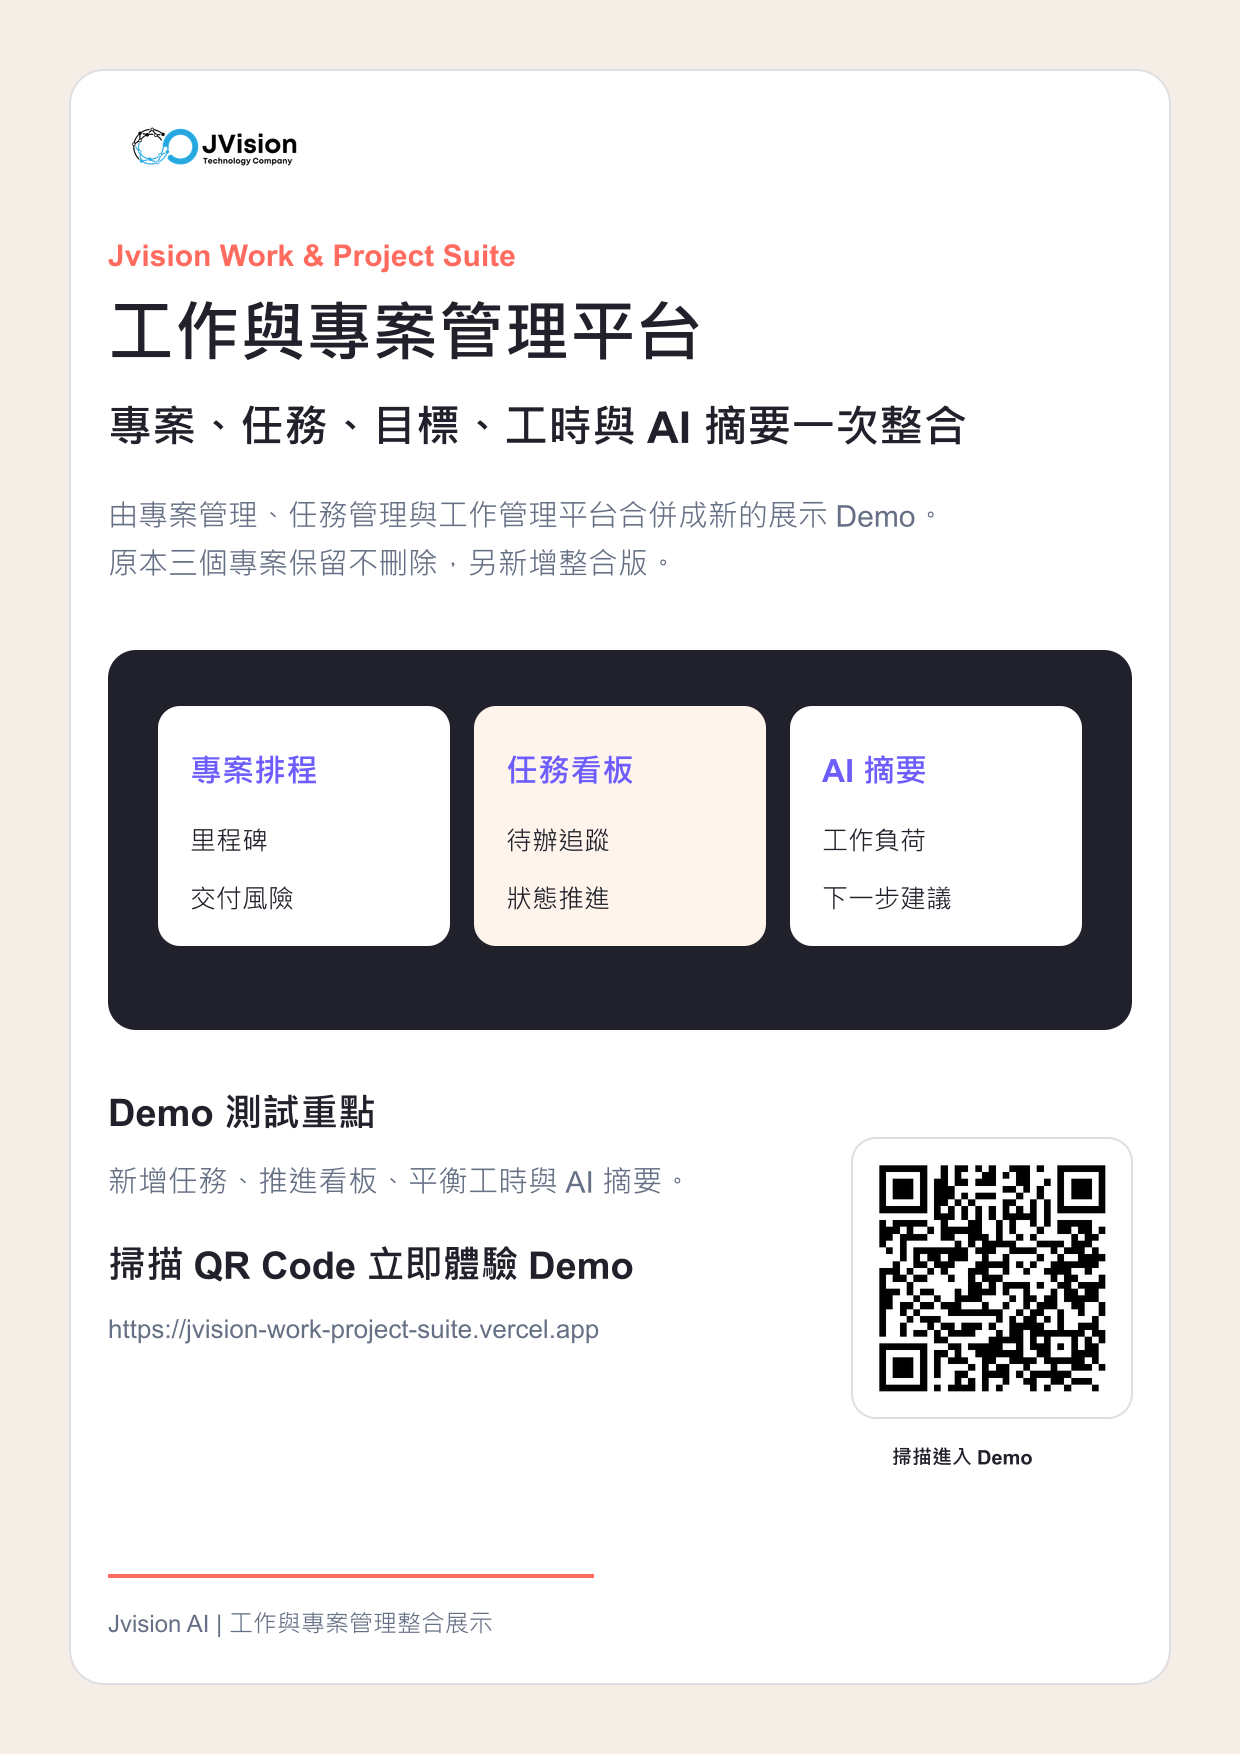
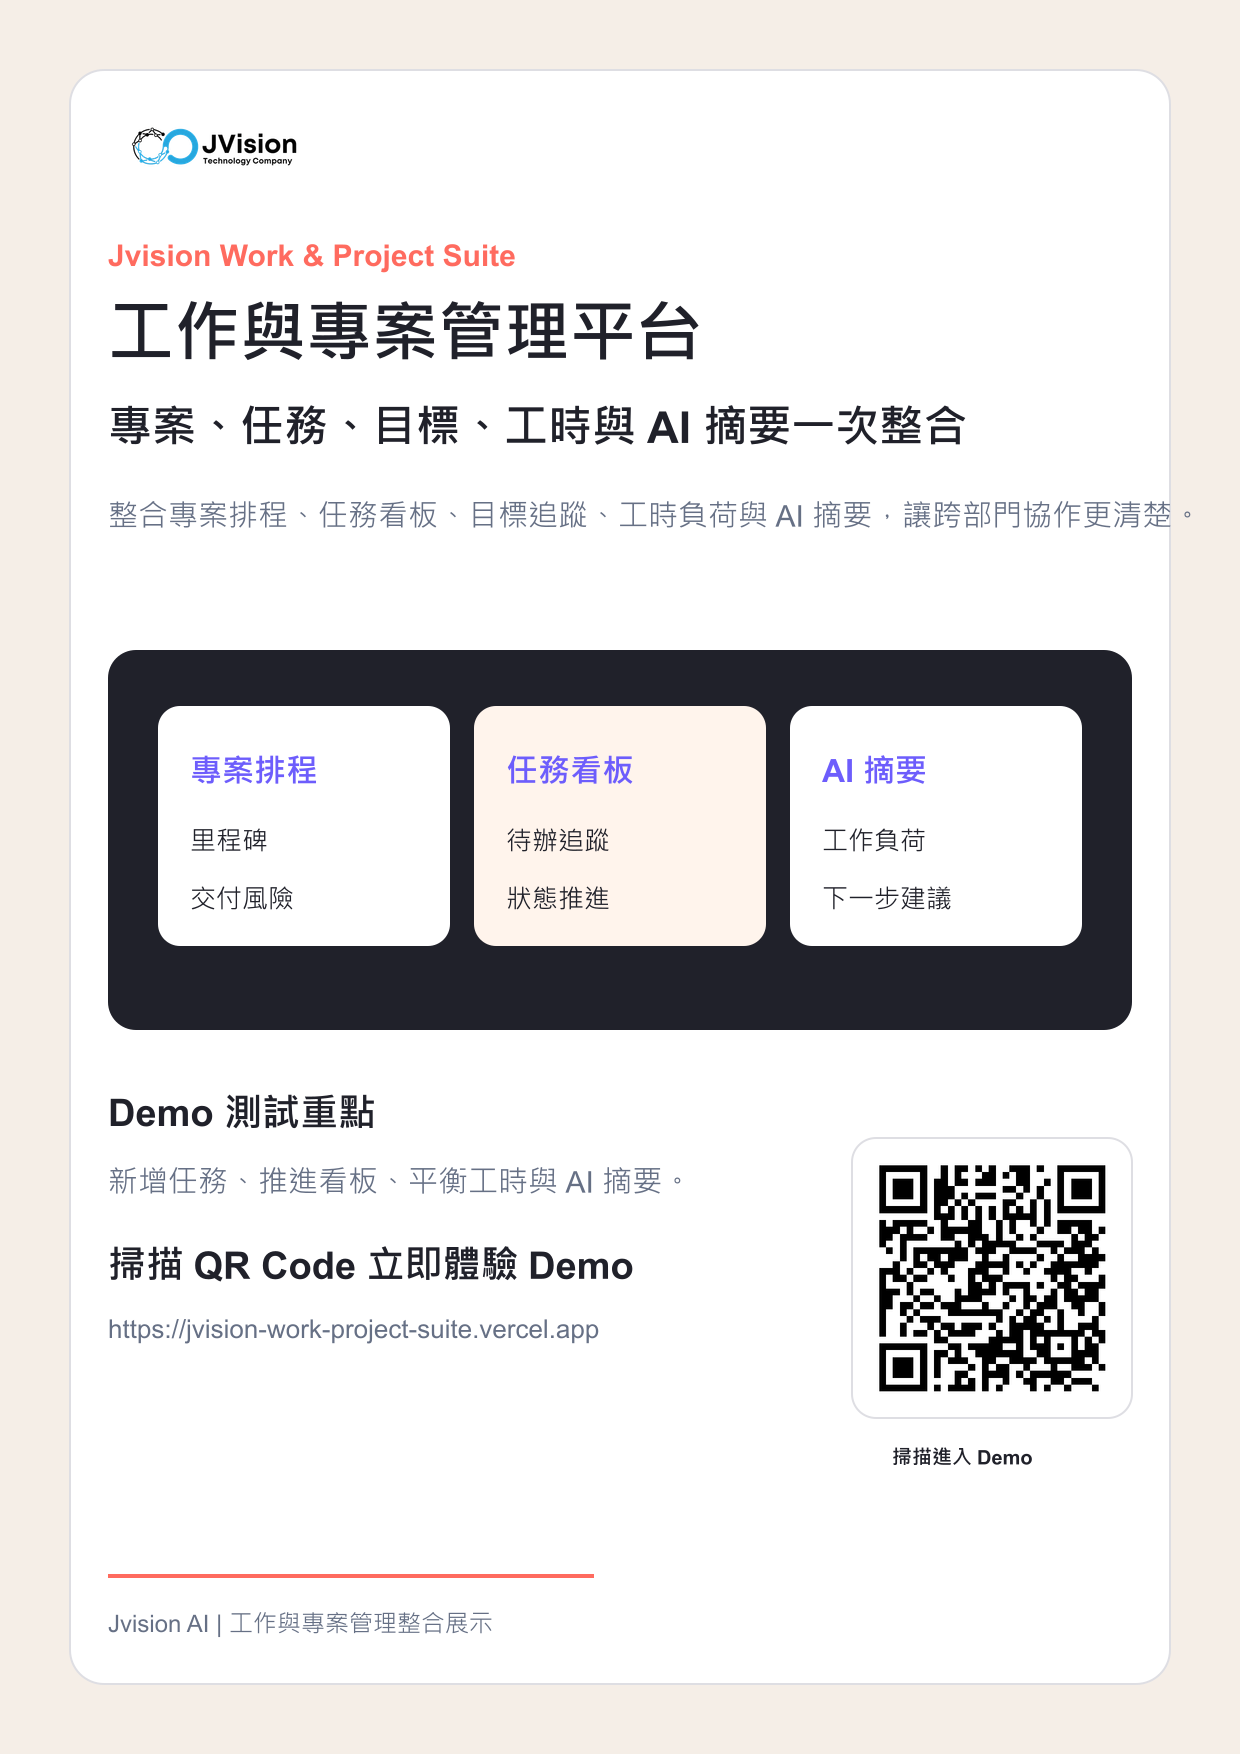
Refine poster wording

Changed region(s): [[0.0919, 0.2771, 0.95, 0.3387]]

diff --git a/src/app/page.tsx b/src/app/page.tsx
@@ -1,4 +1,4 @@
-import { WorkProjectDemo } from "@/components/work-project-demo";
+import { WorkProjectDemo } from "@/components/work-project-demo";
 
 const features = [
   ["專案排程", "管理里程碑、截止日與交付風險，讓每個專案都有清楚節奏。"],
@@ -97,7 +97,7 @@ export default function Home() {
       <section className="source-section" id="source">
         <div className="section-heading">
           <p className="eyebrow">合併來源</p>
-          <h2>原本三個 Demo 保留不刪除，另外新增這個整合版本。</h2>
+          <h2>整合多個工程流程，形成一個更完整的管理工作台。</h2>
         </div>
         <div className="source-grid">
           {sourceProjects.map(([title, text]) => (

diff --git a/README.md b/README.md
@@ -1,6 +1,6 @@
-# Jvision 工作與專案管理平台
+# Jvision 工作與專案管理平台
 
-整合專案管理、任務管理與工作管理平台的互動 Demo。原本三個專案保留不刪除，這個專案是新增的合併版本。
+整合專案排程、任務看板、目標追蹤、工時負荷與 AI 摘要的互動 Demo，讓跨部門協作更清楚。
 
 ## 線上 Demo
 
